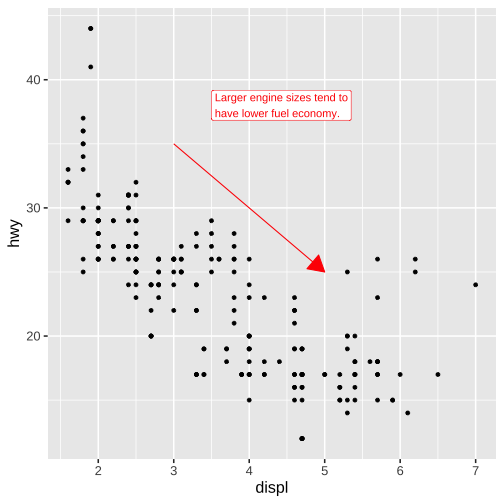
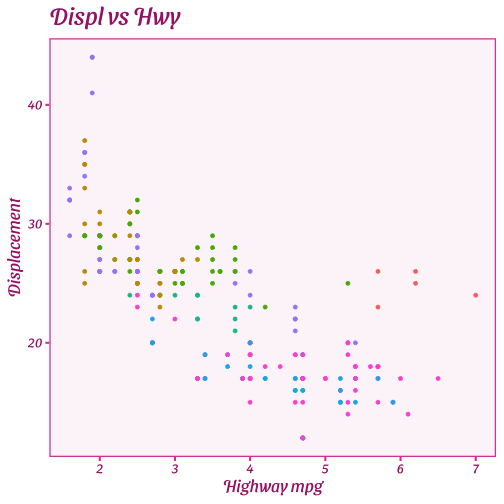
barbie ex

diff --git a/static/slides/24-eda/index.html b/static/slides/24-eda/index.html
@@ -84,6 +84,7 @@ There are many ways to label your axes -- two primary ways:
 
 * `labs()`: can specify x and y [labs example](https://r4ds.hadley.nz/communication.html#labels)
 * `theme()`: can customize with more detail [theme example](https://ggplot2-book.org/themes.html)
+  * note: confusingly, this isn't the same as the color theme!
 
 
 --
@@ -112,7 +113,7 @@ labs(
 
 ---
 ## Example: `taylor` package: 
-Add labels to this plot:
+Add labels to this plot's axes:
 
 
 .panelset[
@@ -130,6 +131,8 @@ ggplot(eras_tour_surprise, aes(x = dress)) +
 
   .panel[.panel-name[Plot]
 ![](index_files/figure-html/taylor-1-1.png) 
+
+(add labs(x = "Suprise Song Dress"))
 ]
 ]
 
@@ -226,6 +229,8 @@ This is how your axes appear -- from their limitations to their breaks/ticks! Ex
 * `label_*()`
   * e.g. `label_percent()`
   * `label_dollar()`
+* [Color Brewer](https://ggplot2.tidyverse.org/reference/scale_brewer.html) (great for pre-set colors)
+  * e.g. `scale_color_brewer()`
 
 
 ---
@@ -290,14 +295,99 @@ PREPARE FOR FUN!!!!
 
 --
 
-This is how you can make your best plot! The possibilities are endless!!
----
-## Layout
+This is how you can make your best plot! The possibilities are endless!! (Source: [ThemePark package](https://github.com/MatthewBJane/ThemePark))
+
+.panelset[
+  .panel[.panel-name[Code]
+
+
+``` r
+library(ThemePark)
+ggplot(barbie_box_office |&gt; dplyr::mutate(daily=daily/1000000), 
+       aes(x = day, y = daily)) +
+    geom_smooth(method = 'loess', 
+                color  = barbie_theme_colors["dark"],
+                fill   = barbie_theme_colors["light"]) +
+    geom_point(color = barbie_theme_colors["medium"]) +
+    labs(title = "Barbie Scatter Plot",
+         subtitle = "Daily box office takings",
+         caption  = "Source: www.boxofficemojo.com",
+         x = "Days since release",
+         y = "Box office takings (million USD)") +
+    theme_barbie()
+```
+]
+
+  .panel[.panel-name[Plot]
+![](index_files/figure-html/theme-barbie-1.png) 
+]
+]
 
 ---
+
+## Other themes
+
+* Built-in options (e.g. `theme_bw()`)
+* Outside-but-still-popular options (`ggthemes` package)
+* Google 'thing you like' + 'ggplot' and chances are there is a theme for you!
+
+---
+## You can really add any theme to anything!
+
+
+``` r
+ggplot(mpg, aes(x = displ, y = hwy, color = class)) + 
+    geom_point() +  labs(title = "Displ vs Hwy", x = "Highway mpg", y = "Displacement") + 
+  theme(legend.position = "none") + theme_barbie()
+```
+
+![](index_files/figure-html/unnamed-chunk-4-1.png)&lt;!-- --&gt;
+
+---
+
+## Layout
+
+
+.panelset[
+  .panel[.panel-name[Code]
+
+
+``` r
+p1 &lt;- ggplot(mpg, aes(x = displ, y = hwy, color = class)) + 
+    geom_point(show.legend = FALSE) +  labs(title = "Displ vs Hwy", x = "Highway mpg", y = "Displacement") + 
+  scale_color_brewer(palette = "Dark2")
+p2 &lt;- ggplot(mpg, aes(x = drv, y = hwy)) + 
+  geom_boxplot(color = "slateblue", fill = "slateblue4", alpha = 0.4)  + 
+  labs(title = "Drivetrain vs Hwy mpg", y = "Highway mpg", x = "Drivetrain")
+p3 &lt;- ggplot(mpg, aes(x = cty, y = hwy, color = class)) + 
+  geom_point(show.legend = FALSE) + theme(legend.position = "none") + scale_color_brewer(palette = "Dark2") +
+  labs(title = "City vs Highway MPG", x = "City mpg", y = "Highway mpg")
+p4 &lt;- ggplot(mpg, aes(x = class, y = cty, fill = class)) + 
+  geom_bar(stat = "summary", fun = "mean") + theme(legend.position = "bottom") + scale_fill_brewer(palette = "Dark2")
+
+(guide_area() / (p1 | p3) / (p2 | p4)) +
+  plot_annotation(
+    title = "City and highway mileage for cars with different drive trains",
+    caption = "Source: https://fueleconomy.gov.") +
+  plot_layout(  guides = "collect",
+    heights = c(1, 3, 2, 4) ) &amp;
+  theme(legend.position = "top")
+```
+]
+
+  .panel[.panel-name[Plot]
+![](index_files/figure-html/layout-1.png) 
+]
+]
+
+---
+class: center, inverse, middle
 # PRACTICE!
 
 [go to today's repo](https://classroom.github.com/a/Abgb4rln)
+
+practice of concepts and prep for A4!
+
 ---
 
 # Recap:
